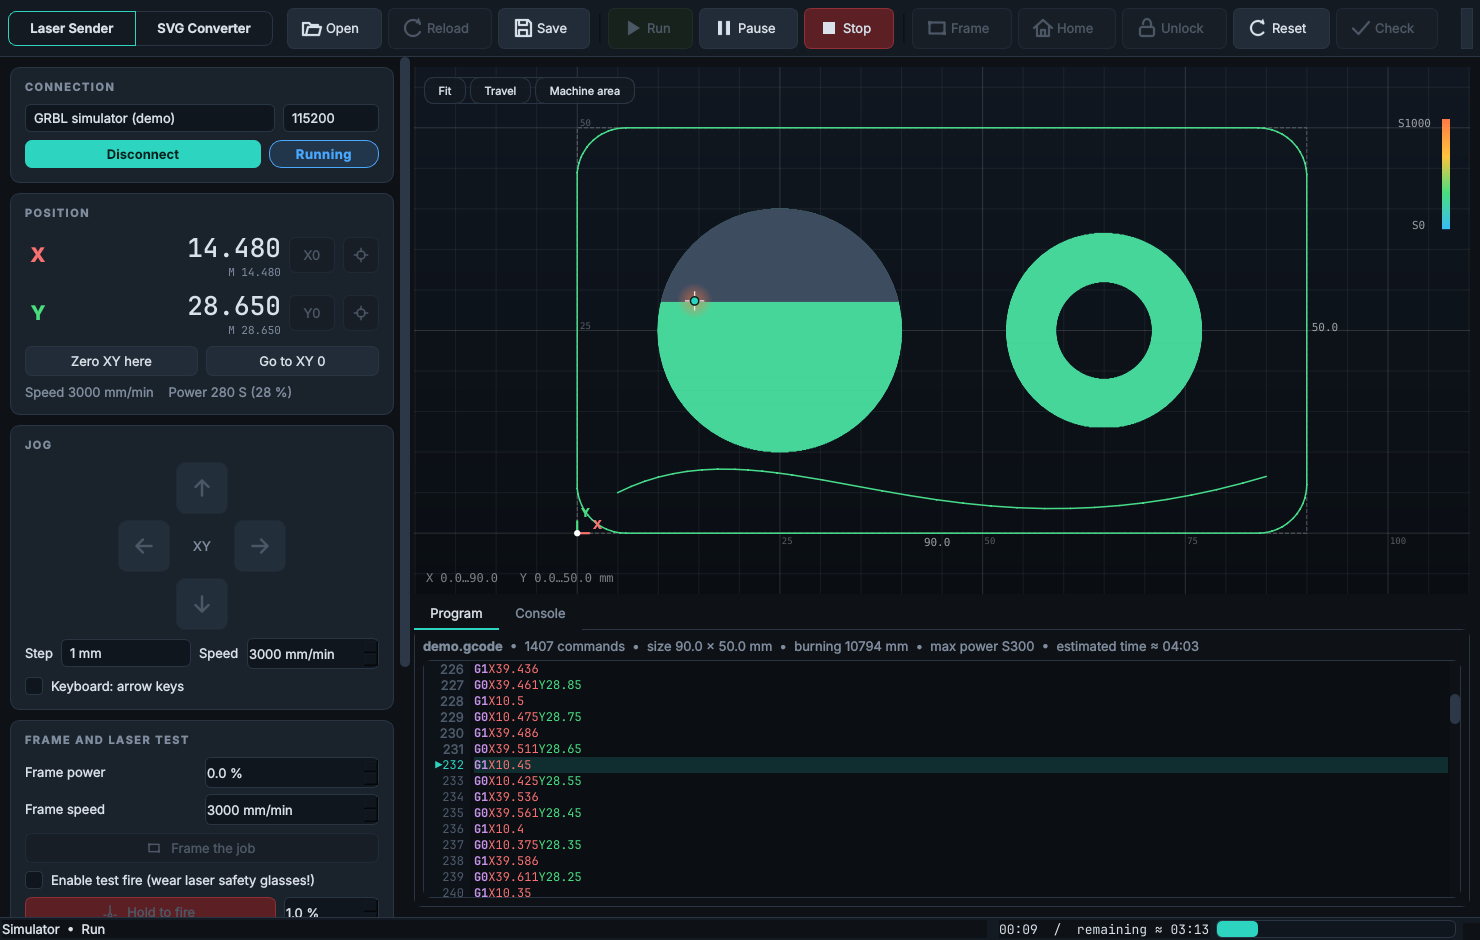
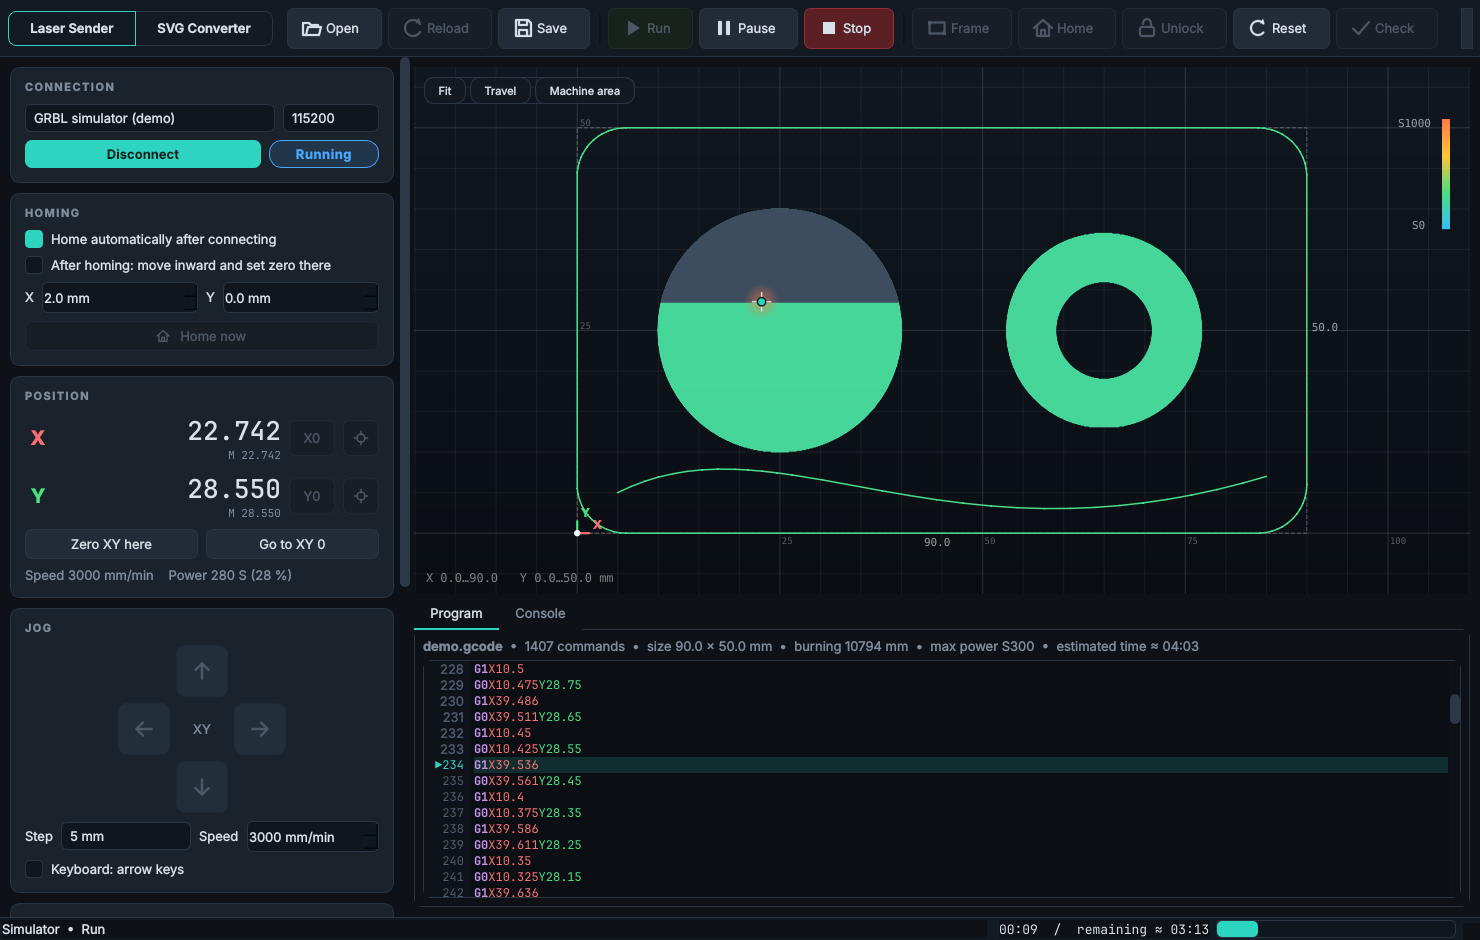
After homing: move inward by a configurable X/Y distance and set the work zero there
Claude-Session: https://claude.ai/code/session_01JUoeoPbjRRopoqtzHmLLRh

diff --git a/laserdeck/mainwindow.py b/laserdeck/mainwindow.py
@@ -62,6 +62,9 @@ class MainWindow(QMainWindow):
         self._door_reset_done = False
         self._alarm_code = -1
         self._autohome_pending = False
+        self._homing_active = False
+        self._homing_seen = False
+        self._homing_t0 = 0.0
         self._parse_serial = 0
         self._parse_thread: ParseThread | None = None
         self._loading_text = False
@@ -145,7 +148,7 @@ class MainWindow(QMainWindow):
         self.act_stop = self._act("stop", "Stop", "Abort (hold + reset): the laser turns off", self.stop_program, "Ctrl+.")
         self.act_frame = self._act("frame", "Frame", "Trace the bounding box of the job (laser off or pointer power)",
                                    self.frame_job, "Ctrl+F")
-        self.act_home = self._act("home", "Home", "Homing cycle ($H)", lambda: self.send("$H"))
+        self.act_home = self._act("home", "Home", "Homing cycle ($H)", self.start_homing)
         self.act_unlock = self._act("unlock", "Unlock", "Clear the alarm ($X)", lambda: self.send("$X"))
         self.act_reset = self._act("reset", "Reset", "Soft reset (Ctrl-X)", self.soft_reset)
         self.act_check = self._act("check", "Check", "Check mode: simulate without moving ($C)", lambda: self.send("$C"),
@@ -203,10 +206,30 @@ class MainWindow(QMainWindow):
         row.addWidget(self.btn_connect, 1)
         row.addWidget(self.badge)
         c.body.addLayout(row)
+        lv.addWidget(c)
+
+        c = Card("Homing")
         self.chk_autohome = QCheckBox("Home automatically after connecting")
-        self.chk_autohome.setToolTip("Runs the homing cycle ($H) as soon as the board is ready: the head goes to the limit "
-                                     "switches and the machine zero is set. Needs homing enabled ($22=1).")
+        self.chk_autohome.setToolTip("Runs the homing cycle ($H) as soon as the board is ready. Needs homing enabled ($22=1).")
         c.body.addWidget(self.chk_autohome)
+        self.chk_homezero = QCheckBox("After homing: move inward and set zero there")
+        self.chk_homezero.setToolTip("When the head has reached the limit switches (at startup or with the Home button) it "
+                                     "moves this many mm towards the work area on each axis and sets the work zero X0 Y0 "
+                                     "at that point. Positive = into the work area (the direction follows $23).")
+        c.body.addWidget(self.chk_homezero)
+        row = QHBoxLayout()
+        self.home_dx = self._spin(0, 200, 5.0, 1, " mm")
+        self.home_dy = self._spin(0, 200, 5.0, 1, " mm")
+        for lab, w_ in (("X", self.home_dx), ("Y", self.home_dy)):
+            row.addWidget(QLabel(lab))
+            row.addWidget(w_, 1)
+        c.body.addLayout(row)
+        row = QHBoxLayout()
+        self.btn_home = QPushButton("  Home now")
+        self.btn_home.setIcon(icon("home"))
+        self.btn_home.clicked.connect(self.start_homing)
+        row.addWidget(self.btn_home)
+        c.body.addLayout(row)
         lv.addWidget(c)
 
         c = Card("Position")
@@ -347,7 +370,7 @@ class MainWindow(QMainWindow):
         bu = QPushButton("Unlock ($X)")
         bu.clicked.connect(lambda: self.send("$X"))
         bh = QPushButton("Homing ($H)")
-        bh.clicked.connect(lambda: self.send("$H"))
+        bh.clicked.connect(self.start_homing)
         for w in (self.alarm_label, bu, bh):
             self.alarm_bar.layout().addWidget(w, 1 if w is self.alarm_label else 0)
         self.alarm_bar.hide()
@@ -501,6 +524,9 @@ class MainWindow(QMainWindow):
         self.step_combo.setCurrentIndex(int(self.qs.value("jog_step", 1)))
         self.chk_keys.setChecked(self.qs.value("keys", "false") == "true")
         self.chk_autohome.setChecked(self.qs.value("autohome", "false") == "true")
+        self.chk_homezero.setChecked(self.qs.value("homezero", "true") == "true")
+        self.home_dx.setValue(float(self.qs.value("home_dx", 5.0)))
+        self.home_dy.setValue(float(self.qs.value("home_dy", 5.0)))
         self.frame_power.setValue(float(self.qs.value("frame_power", 0.0)))
         self.frame_feed.setValue(int(self.qs.value("frame_feed", 3000)))
         self.fire_power.setValue(float(self.qs.value("fire_power", 1.0)))
@@ -519,6 +545,9 @@ class MainWindow(QMainWindow):
         self.qs.setValue("jog_step", self.step_combo.currentIndex())
         self.qs.setValue("keys", "true" if self.chk_keys.isChecked() else "false")
         self.qs.setValue("autohome", "true" if self.chk_autohome.isChecked() else "false")
+        self.qs.setValue("homezero", "true" if self.chk_homezero.isChecked() else "false")
+        self.qs.setValue("home_dx", self.home_dx.value())
+        self.qs.setValue("home_dy", self.home_dy.value())
         self.qs.setValue("frame_power", self.frame_power.value())
         self.qs.setValue("frame_feed", self.frame_feed.value())
         self.qs.setValue("fire_power", self.fire_power.value())
@@ -640,6 +669,7 @@ class MainWindow(QMainWindow):
             self.conn.reset()
         self._update_door_bar(st)
         self._maybe_autohome(st)
+        self._track_homing(st)
         if st.base_state == "Alarm":
             self.alarm_label.setText(self._alarm_text or "Machine in ALARM. Check the position, then unlock ($X) or run homing.")
             self.alarm_bar.show()
@@ -659,10 +689,45 @@ class MainWindow(QMainWindow):
         self._autohome_pending = False
         if self.conn.settings.get(22):
             self.console.append("Homing after connecting ($H)…", "info")
-            self.conn.send_line("$H")
+            self.start_homing()
         else:
             self.console.append("Auto-home skipped: homing is disabled on the board ($22=0). Enable it in the GRBL "
                                 "settings ($22=1) and set $23 for the direction of your limit switches.", "msg")
+
+    def start_homing(self) -> None:
+        if not self.connected or self._running:
+            return
+        self._homing_active, self._homing_seen, self._homing_t0 = True, False, time.monotonic()
+        self.send("$H")
+
+    def _track_homing(self, st: Status) -> None:
+        """Home → Idle means the cycle finished: then move inward and zero (if enabled)."""
+        if not self._homing_active:
+            return
+        b = st.base_state
+        if b == "Home":
+            self._homing_seen = True
+        elif b == "Idle" and self._homing_seen:
+            self._homing_active = False
+            self._after_homing()
+        elif b == "Alarm" and self._homing_seen:
+            self._homing_active = False                    # homing failed: do not move or zero anything
+        elif not self._homing_seen and time.monotonic() - self._homing_t0 > 8.0:
+            self._homing_active = False                    # $H was refused: never entered the Home state
+
+    def _after_homing(self) -> None:
+        if not self.chk_homezero.isChecked() or not self.connected:
+            return
+        mask = int(self.conn.settings.get(23, 0) or 0)
+        words = []
+        for i, (a, v) in enumerate((("X", self.home_dx.value()), ("Y", self.home_dy.value()))):
+            if v > 0:
+                words.append(f"{a}{(1 if mask & (1 << i) else -1) * v:.3f}")   # inward: away from the switch end
+        if words:
+            self.conn.send_line("G91G21G0" + "".join(words))
+            self.conn.send_line("G90")
+        self.conn.send_line("G10L20P0X0Y0")       # GRBL synchronises the planner here: the zero is set after the move
+        self.console.append("Homing done: moved " + (" ".join(words) or "0") + " mm and set XY zero there", "info")
 
     def _update_door_bar(self, st: Status) -> None:
         if st.base_state != "Door":
@@ -763,6 +828,7 @@ class MainWindow(QMainWindow):
         self.act_home.setEnabled(bool(conn and st in ("Idle", "Alarm") and self._homing_enabled()))
         self.act_home.setToolTip("Homing cycle ($H)" if self._homing_enabled() else "Homing is disabled on this machine ($22=0)")
         self.act_unlock.setEnabled(bool(conn and st == "Alarm"))
+        self.btn_home.setEnabled(self.act_home.isEnabled())
         self.act_reset.setEnabled(conn)
         self.act_check.setEnabled(idle)
         self.act_settings.setEnabled(conn)

diff --git a/tests/test_ui.py b/tests/test_ui.py
@@ -312,3 +312,41 @@ def test_settings_are_requested_again_after_a_reset(app, win):
     n = win.conn._ser.log.count("$$")
     win.conn.reset()
     assert pump(app, lambda: win.conn._ser.log.count("$$") > n, 10)
+
+
+def test_after_homing_move_inward_and_zero(app, win):
+    from laserdeck.grbl import Status
+    c = _homed_window(win, (-1.0, -1.0))
+    win._homing_active, win._homing_t0 = True, time.monotonic()
+    win.chk_homezero.setChecked(True)
+    win.home_dx.setValue(3.0)
+    win.home_dy.setValue(4.0)
+    win._track_homing(Status(state="Alarm"))           # still the old alarm: nothing happens yet
+    assert c.sent == [] and win._homing_active
+    win._track_homing(Status(state="Home"))
+    win._track_homing(Status(state="Idle"))
+    assert c.sent == ["G91G21G0X-3.000Y-4.000", "G90", "G10L20P0X0Y0"]
+    assert not win._homing_active
+
+
+def test_after_homing_direction_follows_homing_mask(app, win):
+    from laserdeck.grbl import Status
+    c = _homed_window(win, (-399.0, -1.0), {22: 1, 23: 1, 27: 1.0, 130: 400.0, 131: 400.0})
+    win._homing_active, win._homing_seen = True, True
+    win.chk_homezero.setChecked(True)
+    win.home_dx.setValue(2.0)
+    win.home_dy.setValue(0.0)
+    win._track_homing(Status(state="Idle"))
+    assert c.sent == ["G91G21G0X2.000", "G90", "G10L20P0X0Y0"]
+
+
+def test_homing_failure_or_option_off_sets_no_zero(app, win):
+    from laserdeck.grbl import Status
+    c = _homed_window(win, (-1.0, -1.0))
+    win._homing_active, win._homing_seen = True, True
+    win._track_homing(Status(state="Alarm"))
+    assert c.sent == [] and not win._homing_active
+    win._homing_active, win._homing_seen = True, True
+    win.chk_homezero.setChecked(False)
+    win._track_homing(Status(state="Idle"))
+    assert c.sent == []
